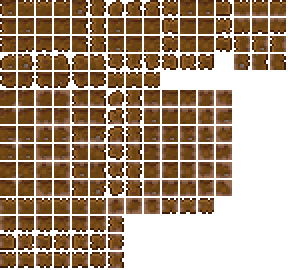
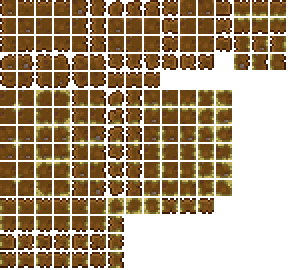
Savanna gen polish and added ambient tiles

diff --git a/Content/Savanna/SavannaEcotone.cs b/Content/Savanna/SavannaEcotone.cs
@@ -16,28 +16,16 @@ internal class SavannaEcotone : EcotoneBase
 	private static int Steps = 0;
 	private static bool HasSavanna = false;
 
-	protected override void InternalLoad() => On_WorldGen.SpreadGrass += HijackSpreadGrass;
-
-	private void HijackSpreadGrass(On_WorldGen.orig_SpreadGrass orig, int i, int j, int dirt, int grass, bool repeat, TileColorCache color)
-	{
-		ushort tileType = Main.tile[i, j].TileType;
-
-		if (tileType == ModContent.TileType<SavannaGrass>() || tileType == ModContent.TileType<SavannaDirt>())
-			return;
-
-		orig(i, j, dirt, grass, repeat, color);
-	}
-
 	public override void AddTasks(List<GenPass> tasks, List<EcotoneSurfaceMapping.EcotoneEntry> entries)
 	{
 		int index = tasks.FindIndex(x => x.Name == "Pyramids");
-		int secondIndex = tasks.FindIndex(x => x.Name == "Spreading Grass");
+		int secondIndex = tasks.FindIndex(x => x.Name == "Piles") + 2;
 
 		if (index == -1 || secondIndex == -1)
 			return;
 
-		tasks.Insert(index, new PassLegacy("Savanna Base", BaseGeneration(entries)));
-		tasks.Insert(secondIndex + 2, new PassLegacy("Grow Savanna", PopulateSavanna));
+		tasks.Insert(index, new PassLegacy("Savanna", BaseGeneration(entries)));
+		tasks.Insert(secondIndex, new PassLegacy("Populate Savanna", PopulateSavanna));
 	}
 
 	private void PopulateSavanna(GenerationProgress progress, GameConfiguration configuration)
@@ -45,67 +33,67 @@ internal class SavannaEcotone : EcotoneBase
 		if (!HasSavanna)
 			return;
 
-		Dictionary<Point16, OpenFlags> tiles = [];
-		Dictionary<Point16, int> grassLocations = [];
-		HashSet<int> types = [TileID.Dirt, TileID.Grass];
-
+		progress.Message = Language.GetTextValue("Mods.SpiritReforged.Generation.SavannaObjects");
 		for (int i = SavannaArea.Left; i < SavannaArea.Right; ++i)
 		{
-			for (int j = SavannaArea.Top; j < SavannaArea.Bottom; ++j)
+			for (int j = SavannaArea.Top - 2; j < SavannaArea.Bottom; ++j)
 			{
 				OpenFlags flags = OpenTools.GetOpenings(i, j);
-				Tile tile = Main.tile[i, j];
+				var tile = Main.tile[i, j];
 
-				if (types.Contains(tile.TileType))
-					tile.TileType = (ushort)ModContent.TileType<SavannaDirt>();
-
-				if (flags != OpenFlags.None)
+				if (tile.TileType == TileID.SmallPiles)
 				{
-					tiles.Add(new Point16(i, j), flags);
-
-					if (tile.TileType == ModContent.TileType<SavannaDirt>() && WorldGen.genRand.NextBool(120))
-						grassLocations.Add(new Point16(i, j), WorldGen.genRand.Next(5, 9));
+					WorldGen.KillTile(i, j);
+					WorldGen.PlaceTile(i, j, ModContent.TileType<SavannaRockSmall>(), true, style: WorldGen.genRand.Next(3));
 				}
-			}
-		}
 
-		if (grassLocations.Count == 0)
-		{
-			SpiritReforgedMod.Instance.Logger.Info("No Savanna grass locations found.");
-			return;
-		}
+				if (tile.TileType == TileID.LargePiles)
+				{
+					WorldGen.KillTile(i, j);
+					WorldGen.PlaceTile(i + 1, j + 1, ModContent.TileType<SavannaRockLarge>(), true, style: WorldGen.genRand.Next(3));
+				}
 
-		foreach ((Point16 position, OpenFlags flags) in tiles)
-		{
-			Tile tile = Main.tile[position];
+				if (flags == OpenFlags.None)
+					continue;
 
-			if (tile.TileType == TileID.Dirt || tile.TileType == TileID.Grass)
-				tile.TileType = (ushort)ModContent.TileType<SavannaDirt>();
-
-			if (tile.TileType == ModContent.TileType<SavannaDirt>())
-			{
-				tile.TileType = (ushort)ModContent.TileType<SavannaGrass>();
-
-				var nearestGrassLocation = grassLocations.MinBy(x => x.Key.ToVector2().DistanceSQ(position.ToVector2()));
-				GrowStuffOnGrass(position, (nearestGrassLocation.Key, nearestGrassLocation.Value));
-				tile.WallType = WallID.None;
+				if (tile.TileType == ModContent.TileType<SavannaDirt>())
+				{
+					tile.TileType = (ushort)ModContent.TileType<SavannaGrass>();
+					GrowStuffOnGrass(i, j);
+				}
 			}
 		}
 	}
 
-	private static void GrowStuffOnGrass(Point16 position, (Point16 location, int size) nearestGrass)
+	private static void GrowStuffOnGrass(int i, int j)
 	{
-		float grassLoc = position.ToVector2().DistanceSQ(nearestGrass.location.ToVector2());
+		if (WorldGen.genRand.NextBool(20))
+			CreateTallgrassPatch(WorldGen.genRand.Next(3, 10));
 
-		if (grassLoc < nearestGrass.size * nearestGrass.size)
+		if (WorldGen.genRand.NextBool(10))
 		{
-			int type = MathF.Sqrt(grassLoc) >= nearestGrass.size - 1 ? ModContent.TileType<ElephantGrassShort>() : ModContent.TileType<ElephantGrass>();
-			WorldGen.PlaceTile(position.X, position.Y - 1, type, true);
+			int type = WorldGen.genRand.NextFromList(ModContent.TileType<TermiteMoundSmall>(), ModContent.TileType<TermiteMoundMedium>(), ModContent.TileType<TermiteMoundLarge>());
+			int style = WorldGen.genRand.Next(TileObjectData.GetTileData(type, 0).RandomStyleRange);
+
+			WorldGen.PlaceTile(i, j - 1, type, true, style: style);
 		}
 
 		if (WorldGen.genRand.NextBool(12))
+			WorldGen.PlaceTile(i, j - 1, ModContent.TileType<SavannaShrubs>(), true, style: WorldGen.genRand.Next(11));
+
+		if (WorldGen.genRand.NextBool(3))
+			WorldGen.PlaceTile(i, j - 1, ModContent.TileType<SavannaFoliage>(), true, style: WorldGen.genRand.Next(12));
+
+		void CreateTallgrassPatch(int size)
 		{
-			WorldGen.PlaceTile(position.X, position.Y - 1, ModContent.TileType<SavannaShrubs>(), style: WorldGen.genRand.Next(11));
+			for (int v = 0; v < 2; v++)
+				for (int x = i - size / 2; x < i + size / 2; x++)
+				{
+					if (v == 0) //Place short grass
+						WorldGen.PlaceTile(x, j - 1, ModContent.TileType<ElephantGrassShort>(), true, style: WorldGen.genRand.Next(3));
+					else if (ElephantGrass.IsElephantGrass(x - 1, j - 1) && ElephantGrass.IsElephantGrass(x + 1, j - 1)) //Grow short grass
+						WorldGen.PlaceTile(x, j - 1, ModContent.TileType<ElephantGrass>(), true, style: WorldGen.genRand.Next(5));
+				}
 		}
 	}
 
@@ -115,7 +103,8 @@ internal class SavannaEcotone : EcotoneBase
 		static bool NotOcean(EcotoneSurfaceMapping.EcotoneEntry e) => e.Start.X > GenVars.leftBeachEnd 
 			&& e.End.X > GenVars.leftBeachEnd && e.Start.X < GenVars.rightBeachStart && e.End.X < GenVars.rightBeachStart;
 
-		IEnumerable<EcotoneSurfaceMapping.EcotoneEntry> validEntries = entries.Where(x => x.SurroundedBy("Desert", "Jungle") && Math.Abs(x.Start.Y - x.End.Y) < 120 && NotOcean(x));
+		IEnumerable<EcotoneSurfaceMapping.EcotoneEntry> validEntries 
+			= entries.Where(x => x.SurroundedBy("Desert", "Jungle") && Math.Abs(x.Start.Y - x.End.Y) < 120 && NotOcean(x));
 
 		if (!validEntries.Any())
 			return;
@@ -126,6 +115,7 @@ internal class SavannaEcotone : EcotoneBase
 			return;
 
 		HasSavanna = true;
+		progress.Message = Language.GetTextValue("Mods.SpiritReforged.Generation.SavannaTerrain");
 
 		int startX = entry.Start.X - 0;
 		int endX = entry.End.X + 0;
@@ -157,22 +147,26 @@ internal class SavannaEcotone : EcotoneBase
 				const float steepness = .05f;
 
 				//Control hill shape using a lazy sine that remains similar between steps
-				float amount = (float)Math.Sin(1 + y % fullHeight / (float)fullHeight * 2) * steepness;
+				float amount = (float)Math.Sin(1f + y % fullHeight / (float)fullHeight * 2) * steepness;
 				curve += Math.Max(amount, .008f);
 			}
 
+			bool hitSolid = false;
 			float taper = Math.Clamp((float)Math.Sin((float)(x - startX) / (endX - startX) * Math.PI) * 1.75f, 0, 1);
 			for (int i = -80; i < (30 + depth + minDepth) * taper; ++i)
 			{
 				int realY = y + i;
-				Tile tile = Main.tile[x, realY];
+				var tile = Main.tile[x, realY];
 
 				if (i >= 0)
 				{
-					if (i is >= 0 and < 15)
+					if (i >= 15 && tile.HasTile)
+						hitSolid = true;
+
+					if (i >= 0 && !hitSolid)
 						tile.HasTile = true;
 
-					if (tile.HasTile && !validIds.Contains(tile.TileType))
+					if (tile.HasTile && !validIds.Contains(tile.TileType) && !TileID.Sets.Ore[tile.TileType])
 						continue;
 
 					if (realY < topBottomY.X)
@@ -187,11 +181,18 @@ internal class SavannaEcotone : EcotoneBase
 					if (i > 90 + depth - noise)
 						type = TileID.Sandstone;
 
-					if (tile.TileType == TileID.Stone)
-						type = TileID.ClayBlock;
+					if (tile.TileType == TileID.Stone || TileID.Sets.Ore[tile.TileType])
+						type = GetHardConversion(type, y);
 
 					tile.TileType = (ushort)type;
-					tile.WallType = WallID.DirtUnsafe;
+
+					if (i > 1)
+					{
+						if (tile.WallType == WallID.None)
+							tile.WallType = WallID.DirtUnsafe; //Place dirt walls (don't replace existing walls)
+					}
+					else
+						tile.Clear(TileDataType.Wall); //Clear walls above the Savanna surface
 				}
 				else
 					tile.Clear(TileDataType.All);
@@ -214,6 +215,14 @@ internal class SavannaEcotone : EcotoneBase
 			}
 
 			return off < 3 ? TileID.Sandstone : TileID.Sand;
+		}
+
+		static ushort GetHardConversion(int tileType, int y)
+		{
+			if (y < 6 && TileID.Sets.Ore[tileType] || tileType == TileID.Stone)
+				return (ushort)ModContent.TileType<SavannaDirt>(); //Convert ores and stone close to the surface
+
+			return (ushort)((tileType == TileID.Stone) ? TileID.ClayBlock : tileType);
 		}
 	};
 

diff --git a/Content/Savanna/Tiles/TermiteMound.cs b/Content/Savanna/Tiles/TermiteMound.cs
@@ -18,7 +18,7 @@ public class TermiteMoundLarge : ModTile
 		TileObjectData.newTile.CoordinateHeights = [16, 16, 16, 16, 16];
 		TileObjectData.newTile.Origin = new(2, 4);
 		TileObjectData.newTile.AnchorBottom = new AnchorData(AnchorType.SolidTile, 3, 0);
-		TileObjectData.newTile.AnchorValidTiles = [ModContent.TileType<SavannaGrass>()];
+		TileObjectData.newTile.AnchorValidTiles = [ModContent.TileType<SavannaGrass>(), ModContent.TileType<SavannaDirt>()];
 		TileObjectData.newTile.StyleHorizontal = true;
 		TileObjectData.addTile(Type);
 
@@ -94,7 +94,7 @@ public class TermiteMoundMedium : ModTile
 		TileObjectData.newTile.CoordinateHeights = [16, 16, 16, 16];
 		TileObjectData.newTile.Origin = new(1, 3);
 		TileObjectData.newTile.AnchorBottom = new AnchorData(AnchorType.SolidTile, 3, 0);
-		TileObjectData.newTile.AnchorValidTiles = [ModContent.TileType<SavannaGrass>()];
+		TileObjectData.newTile.AnchorValidTiles = [ModContent.TileType<SavannaGrass>(), ModContent.TileType<SavannaDirt>()];
 		TileObjectData.newTile.StyleHorizontal = true;
 		TileObjectData.newTile.RandomStyleRange = 2;
 		TileObjectData.addTile(Type);
@@ -142,7 +142,7 @@ public class TermiteMoundSmall : ModTile
 		TileObjectData.newTile.CoordinateHeights = [16];
 		TileObjectData.newTile.Origin = new(1, 0);
 		TileObjectData.newTile.AnchorBottom = new AnchorData(AnchorType.SolidTile, 2, 0);
-		TileObjectData.newTile.AnchorValidTiles = [ModContent.TileType<SavannaGrass>()];
+		TileObjectData.newTile.AnchorValidTiles = [ModContent.TileType<SavannaGrass>(), ModContent.TileType<SavannaDirt>()];
 		TileObjectData.newTile.StyleHorizontal = true;
 		TileObjectData.newTile.RandomStyleRange = 3;
 		TileObjectData.addTile(Type);

diff --git a/Content/Savanna/Tiles/SavannaRocks.cs b/Content/Savanna/Tiles/SavannaRocks.cs
@@ -13,8 +13,9 @@ public class SavannaRockLarge : ModTile
 
 		TileObjectData.newTile.CopyFrom(TileObjectData.Style3x2);
 		TileObjectData.newTile.CoordinateHeights = [16, 18];
+		TileObjectData.newTile.Origin = new(0, 1);
 		TileObjectData.newTile.AnchorBottom = new AnchorData(AnchorType.SolidTile, 3, 0);
-		TileObjectData.newTile.AnchorValidTiles = [ModContent.TileType<SavannaGrass>()];
+		TileObjectData.newTile.AnchorValidTiles = [ModContent.TileType<SavannaGrass>(), ModContent.TileType<SavannaDirt>()];
 		TileObjectData.newTile.StyleHorizontal = true;
 		TileObjectData.newTile.RandomStyleRange = 3;
 		TileObjectData.addTile(Type);
@@ -37,8 +38,9 @@ public class SavannaRockSmall : ModTile
 
 		TileObjectData.newTile.CopyFrom(TileObjectData.Style2x1);
 		TileObjectData.newTile.CoordinateHeights = [18];
+		TileObjectData.newTile.Origin = new(1, 0);
 		TileObjectData.newTile.AnchorBottom = new AnchorData(AnchorType.SolidTile, 2, 0);
-		TileObjectData.newTile.AnchorValidTiles = [ModContent.TileType<SavannaGrass>()];
+		TileObjectData.newTile.AnchorValidTiles = [ModContent.TileType<SavannaGrass>(), ModContent.TileType<SavannaDirt>()];
 		TileObjectData.newTile.StyleHorizontal = true;
 		TileObjectData.newTile.RandomStyleRange = 3;
 		TileObjectData.addTile(Type);

diff --git a/Content/Savanna/Tiles/SavannaDirt.cs b/Content/Savanna/Tiles/SavannaDirt.cs
@@ -7,10 +7,7 @@ public class SavannaDirt : ModTile, IAutoloadTileItem
 	public override void SetStaticDefaults()
 	{
 		Main.tileSolid[Type] = true;
-		Main.tileMergeDirt[Type] = true;
 		Main.tileBlockLight[Type] = true;
-
-		Main.tileMerge[Type][TileID.Sand] = true;
 		Main.tileMerge[TileID.Sand][Type] = true;
 
 		TileID.Sets.ChecksForMerge[Type] = true;
@@ -19,10 +16,6 @@ public class SavannaDirt : ModTile, IAutoloadTileItem
 		MineResist = .5f;
 	}
 
-	//public override void ModifyFrameMerge(int i, int j, ref int up, ref int down, ref int left, ref int right, ref int upLeft, ref int upRight, ref int downLeft, ref int downRight)
-	//{
-	//	WorldGen.TileMergeAttempt(-2, TileID.Sand, ref up, ref down, ref left, ref right, ref upLeft, ref upRight, ref downLeft, ref downRight);
-	//}
-
-	public override bool CanExplode(int i, int j) => true;
+	public override void ModifyFrameMerge(int i, int j, ref int up, ref int down, ref int left, ref int right, ref int upLeft, ref int upRight, ref int downLeft, ref int downRight)
+		=> WorldGen.TileMergeAttempt(-2, TileID.Sand, ref up, ref down, ref left, ref right, ref upLeft, ref upRight, ref downLeft, ref downRight);
 }
